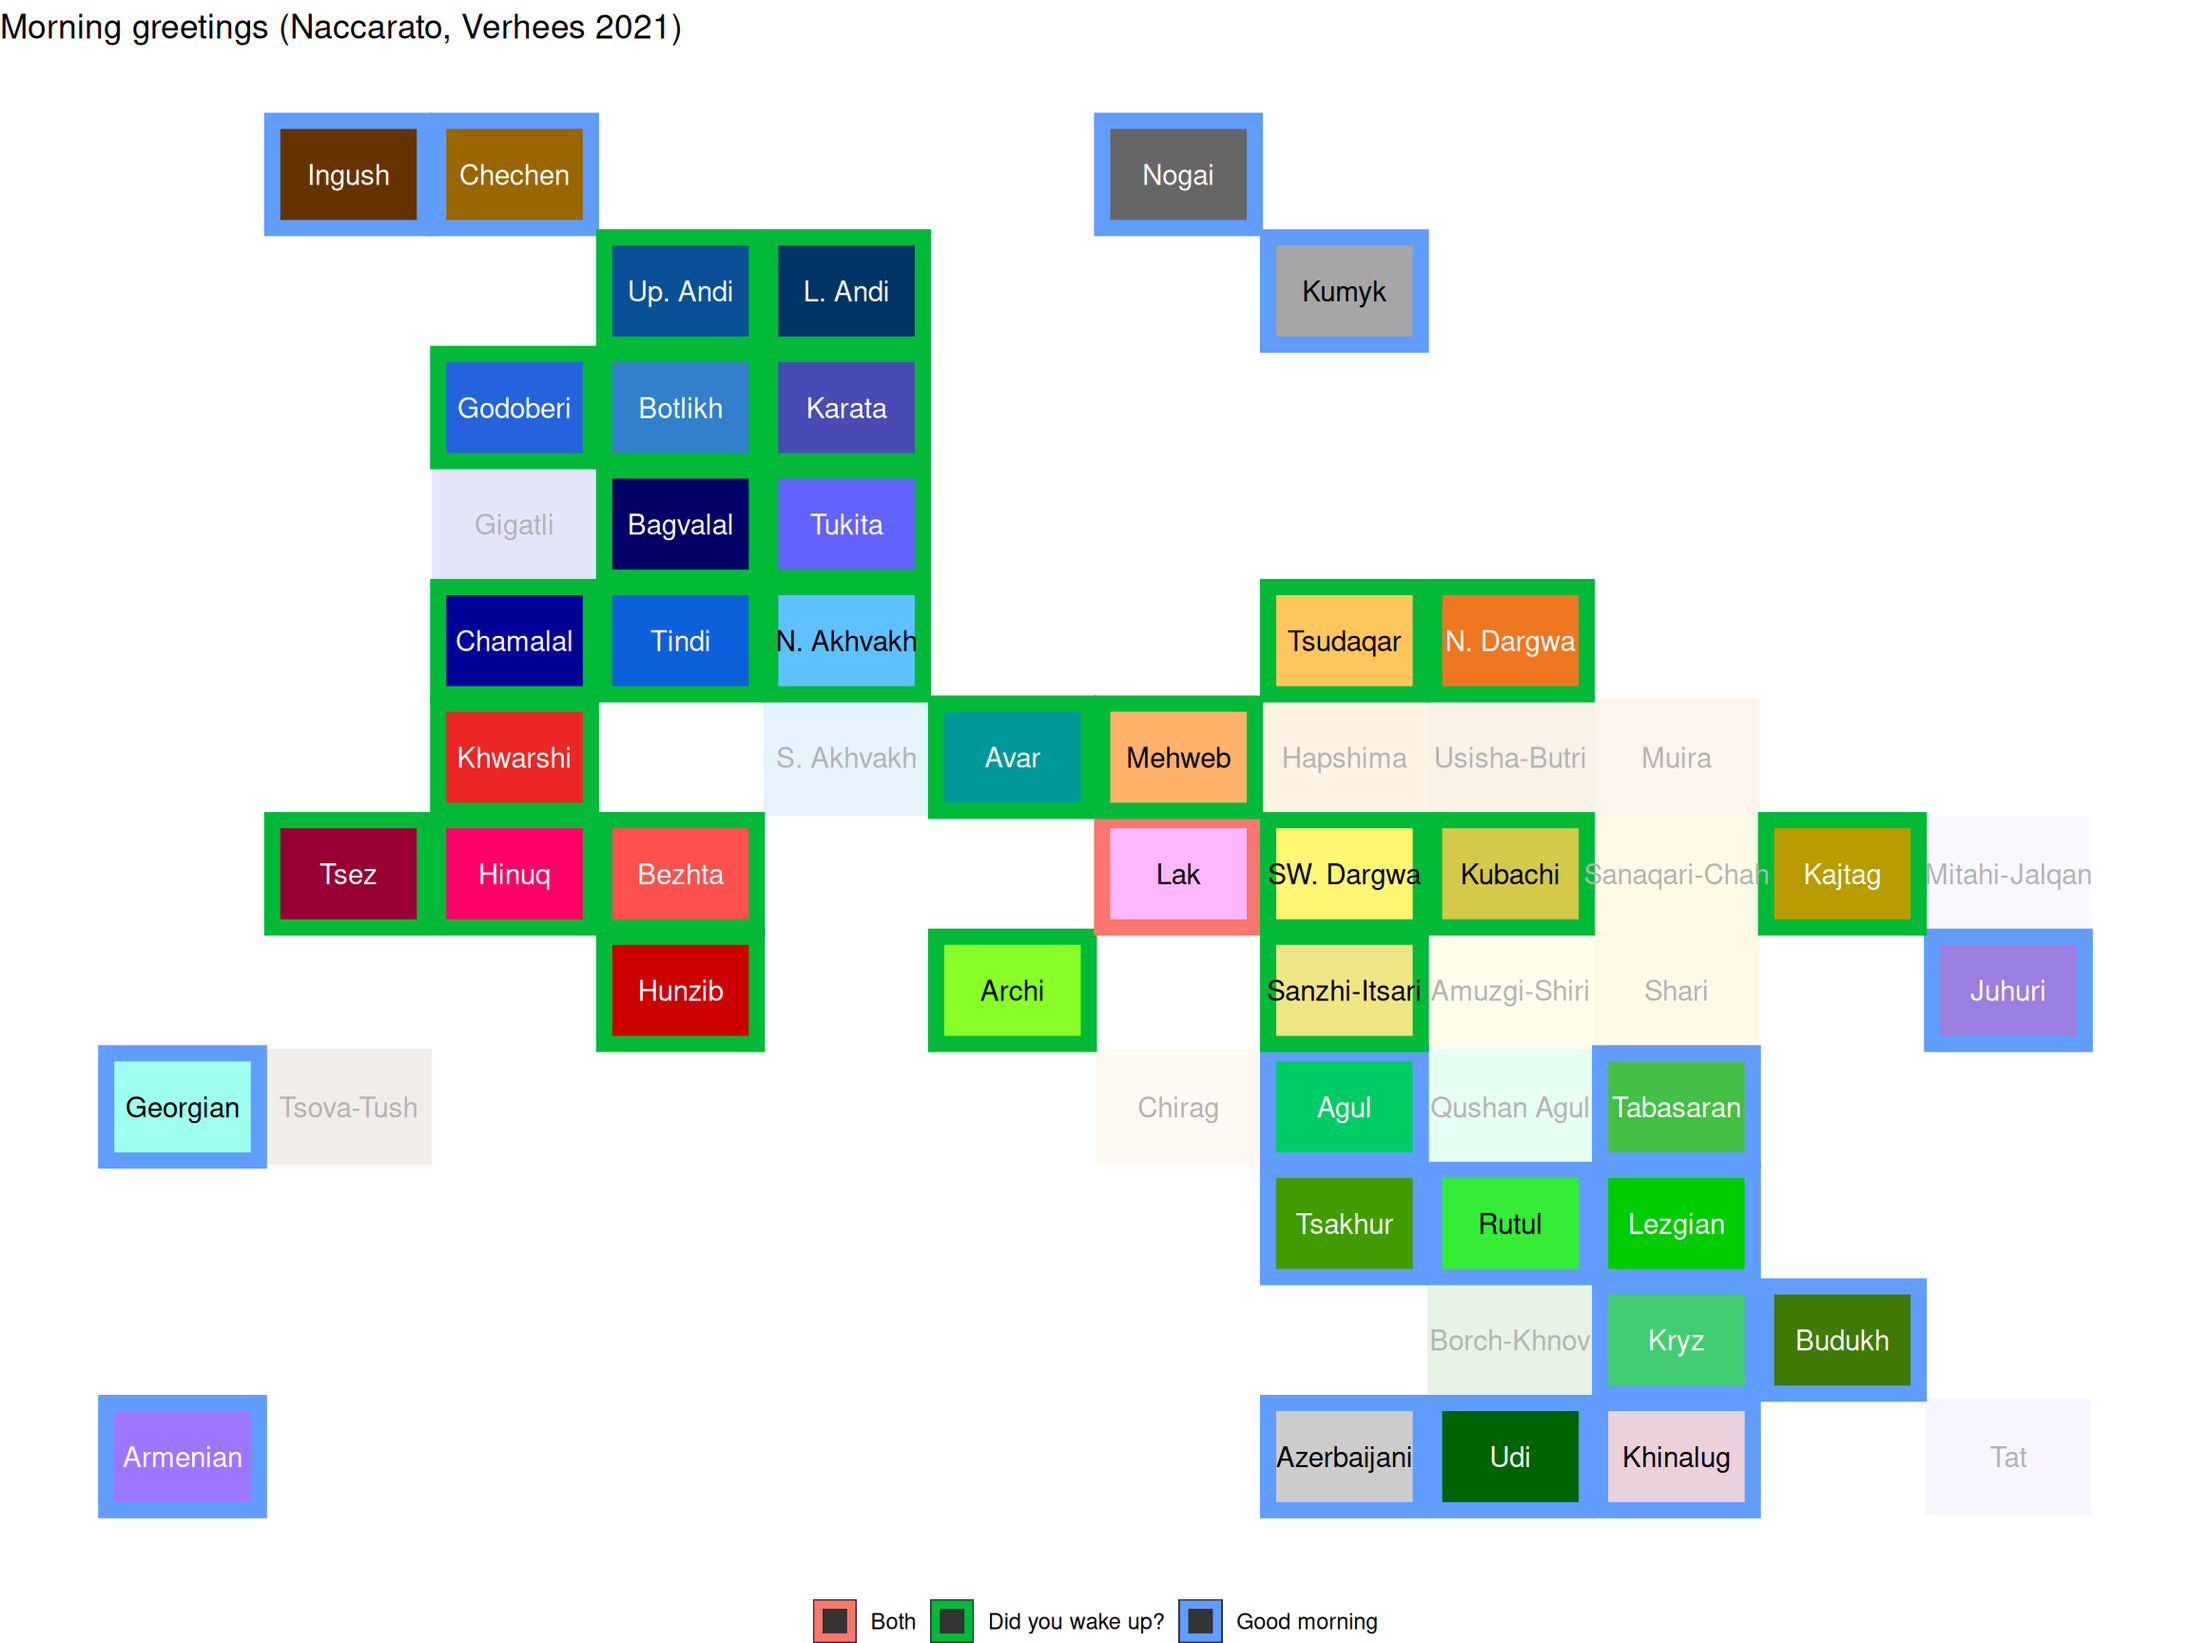
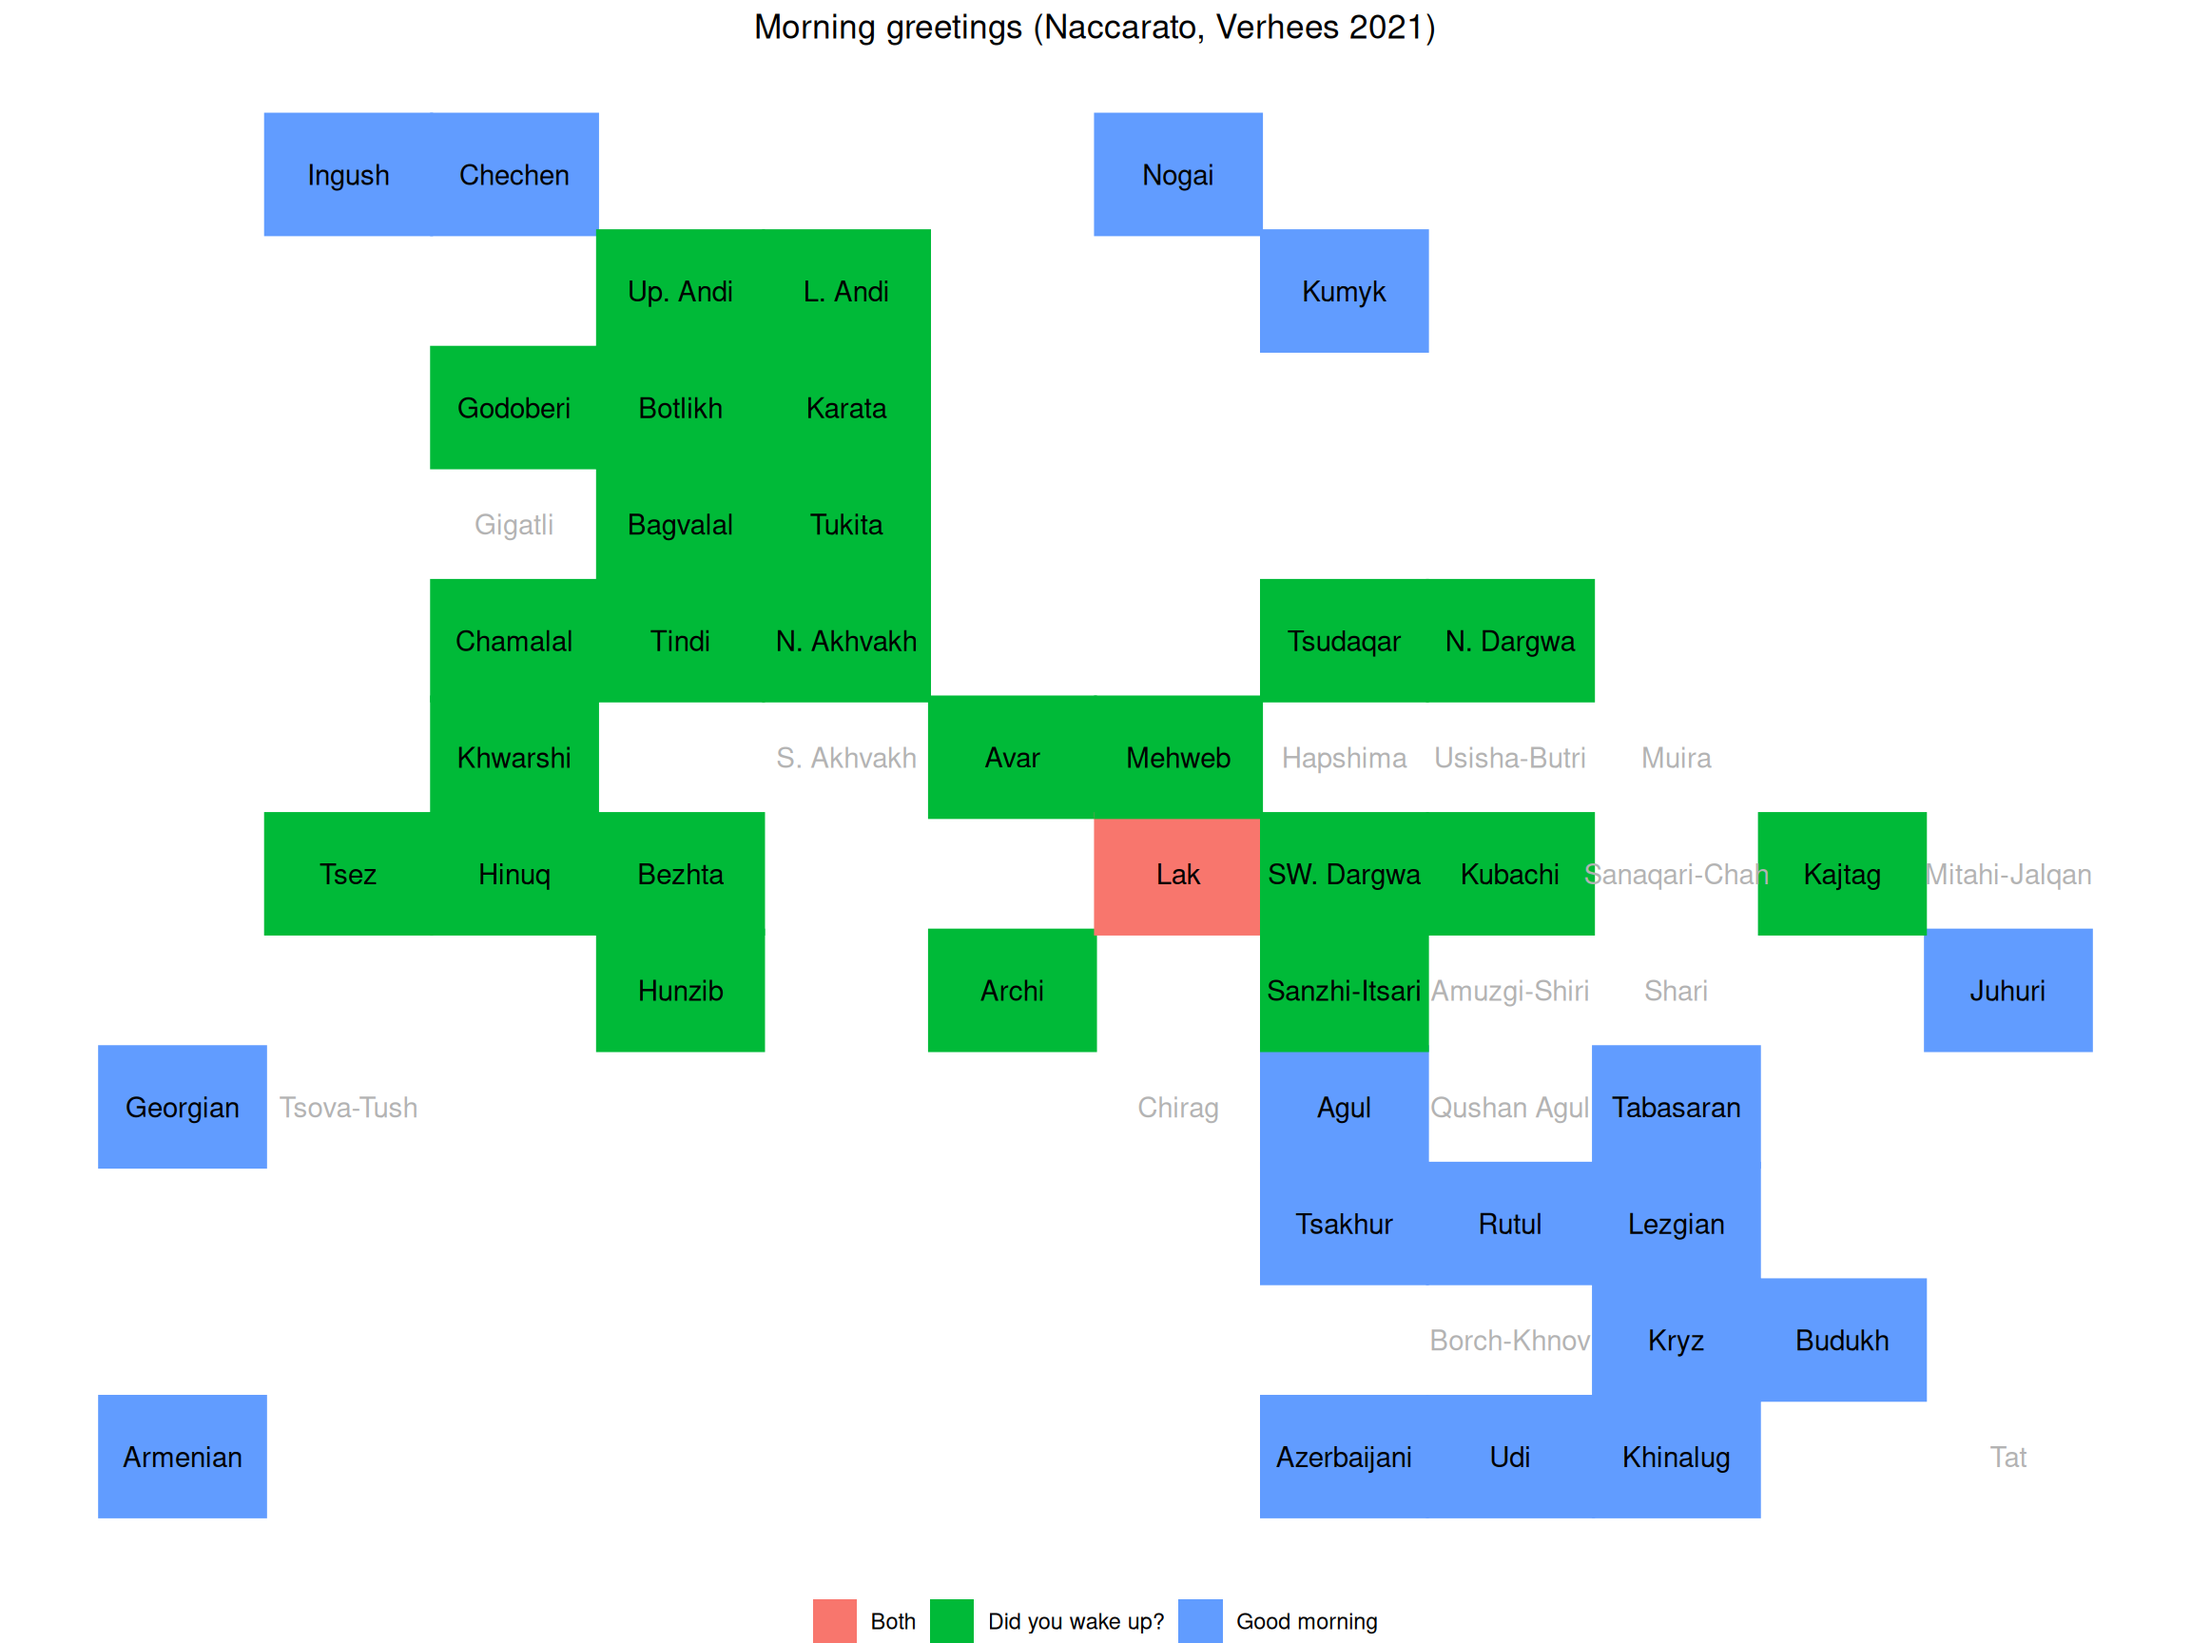
documentation update

diff --git a/docs/index.html b/docs/index.html
@@ -129,12 +129,32 @@ pre > code.sourceCode > span > a:first-child::before { text-decoration: underlin
 </div>
 <div class="sourceCode cell-code" id="cb4"><pre class="sourceCode r code-with-copy"><code class="sourceCode r"><span id="cb4-1"><a href="#cb4-1" aria-hidden="true" tabindex="-1"></a><span class="fu">ec_tile_map</span>(ec_languages,</span>
 <span id="cb4-2"><a href="#cb4-2" aria-hidden="true" tabindex="-1"></a>            <span class="at">feature_column =</span> <span class="st">"morning_greetings"</span>,</span>
-<span id="cb4-3"><a href="#cb4-3" aria-hidden="true" tabindex="-1"></a>            <span class="at">fill_by =</span> <span class="st">"language"</span>,</span>
-<span id="cb4-4"><a href="#cb4-4" aria-hidden="true" tabindex="-1"></a>            <span class="at">title =</span> <span class="st">"Morning greetings (Naccarato, Verhees 2021)"</span>)</span></code><button title="Copy to Clipboard" class="code-copy-button"><i class="bi"></i></button></pre></div>
+<span id="cb4-3"><a href="#cb4-3" aria-hidden="true" tabindex="-1"></a>            <span class="at">title =</span> <span class="st">"Morning greetings (Naccarato, Verhees 2021)"</span>,</span>
+<span id="cb4-4"><a href="#cb4-4" aria-hidden="true" tabindex="-1"></a>            <span class="at">title_position =</span> <span class="st">"center"</span>)</span></code><button title="Copy to Clipboard" class="code-copy-button"><i class="bi"></i></button></pre></div>
 <div class="cell-output-display">
 <div>
 <figure class="figure">
 <p><img src="index_files/figure-html/unnamed-chunk-1-4.png" class="img-fluid figure-img" width="1152"></p>
+</figure>
+</div>
+</div>
+<div class="sourceCode cell-code" id="cb5"><pre class="sourceCode r code-with-copy"><code class="sourceCode r"><span id="cb5-1"><a href="#cb5-1" aria-hidden="true" tabindex="-1"></a><span class="fu">ec_tile_map</span>(<span class="at">title =</span> <span class="st">"This is a Tile map of East Caucasian languages"</span>,</span>
+<span id="cb5-2"><a href="#cb5-2" aria-hidden="true" tabindex="-1"></a>            <span class="at">title_position =</span> <span class="st">"right"</span>)</span></code><button title="Copy to Clipboard" class="code-copy-button"><i class="bi"></i></button></pre></div>
+<div class="cell-output-display">
+<div>
+<figure class="figure">
+<p><img src="index_files/figure-html/unnamed-chunk-1-5.png" class="img-fluid figure-img" width="1152"></p>
+</figure>
+</div>
+</div>
+<div class="sourceCode cell-code" id="cb6"><pre class="sourceCode r code-with-copy"><code class="sourceCode r"><span id="cb6-1"><a href="#cb6-1" aria-hidden="true" tabindex="-1"></a><span class="fu">ec_tile_map</span>(ec_languages,</span>
+<span id="cb6-2"><a href="#cb6-2" aria-hidden="true" tabindex="-1"></a>            <span class="at">feature_column =</span> <span class="st">"morning_greetings"</span>,</span>
+<span id="cb6-3"><a href="#cb6-3" aria-hidden="true" tabindex="-1"></a>            <span class="at">fill_by =</span> <span class="st">"language"</span>,</span>
+<span id="cb6-4"><a href="#cb6-4" aria-hidden="true" tabindex="-1"></a>            <span class="at">title =</span> <span class="st">"Morning greetings (Naccarato, Verhees 2021)"</span>)</span></code><button title="Copy to Clipboard" class="code-copy-button"><i class="bi"></i></button></pre></div>
+<div class="cell-output-display">
+<div>
+<figure class="figure">
+<p><img src="index_files/figure-html/unnamed-chunk-1-6.png" class="img-fluid figure-img" width="1152"></p>
 </figure>
 </div>
 </div>
